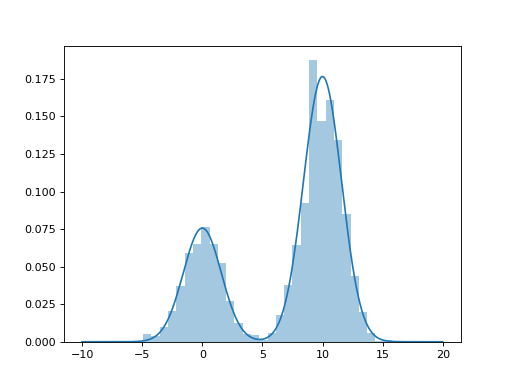
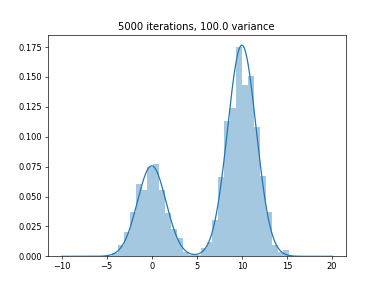
fixed results

diff --git a/mcmc/run_mh.py b/mcmc/run_mh.py
@@ -38,6 +38,7 @@ def main(args):
         samples.append(mh.step())
 
     # plot real distribution
+    plt.title("{:d} iterations, {:.1f} variance".format(args.iters, args.var))
     colors = sns.color_palette()
 
     x = np.linspace(-10, 20, num=1000)
@@ -48,7 +49,7 @@ def main(args):
     sns.distplot(samples, bins=30, hist=True, norm_hist=True, kde=False, color=colors[0])
 
     if args.save is not None:
-        plt.savefig(args.save, figsize=(2, 1.5), dpi=80)
+        plt.savefig(args.save, figsize=(4, 3), dpi=60)
 
     if not args.no_show:
         plt.show()

diff --git a/README.md b/README.md
@@ -4,7 +4,17 @@ This repository replicates the figures from [C. Andrieu's et al. tutorial on MCM
 
 ## The Metropolis-Hastings algorithm
 
+Changing iterations:
+
 ![100_iter](results/mh_100_it_100_var.png) 
 ![500_iter](results/mh_500_it_100_var.png)
 ![1000_iter](results/mh_1000_it_100_var.png)
 ![5000_iter](results/mh_5000_it_100_var.png)
+
+Changing variance of the proposal distribution:
+
+![0.1_var](results/mh_5000_it_0.1_var.png) 
+![1_var](results/mh_5000_it_1_var.png)
+![100_var](results/mh_5000_it_100_var.png)
+![1000_var](results/mh_5000_it_1000_var.png)
+![2000_var](results/mh_5000_it_2000_var.png)
